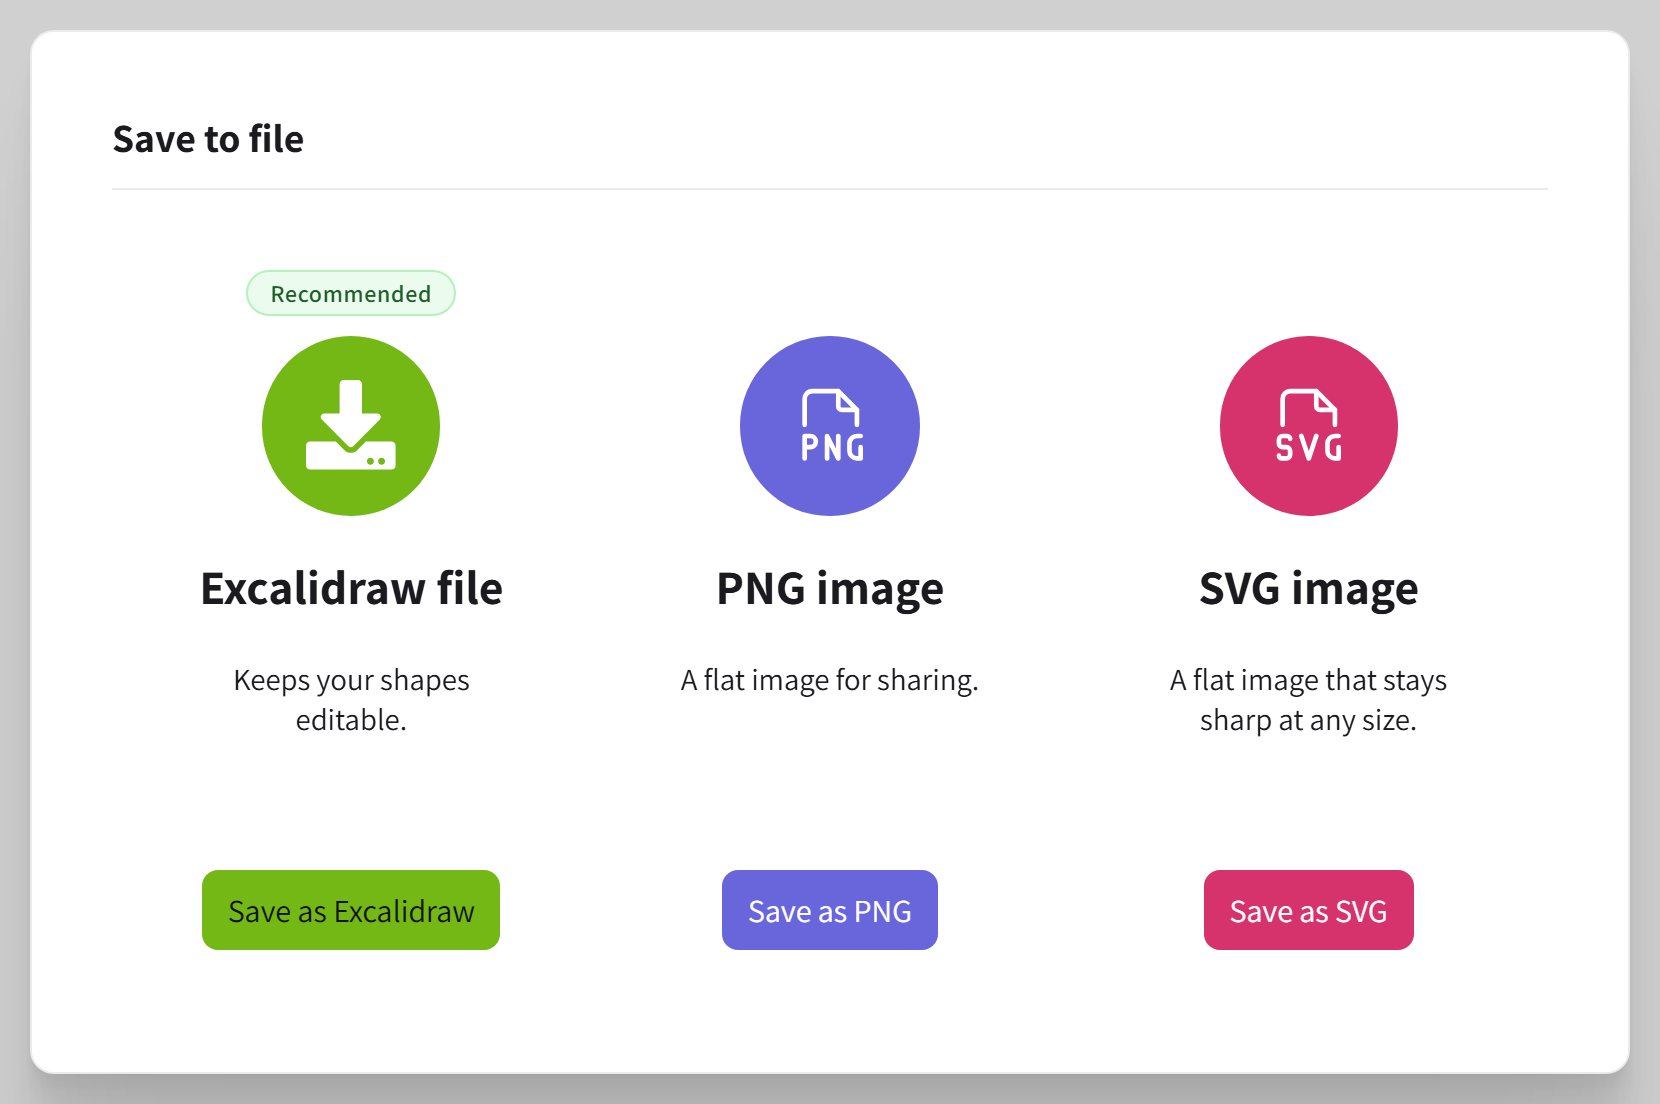
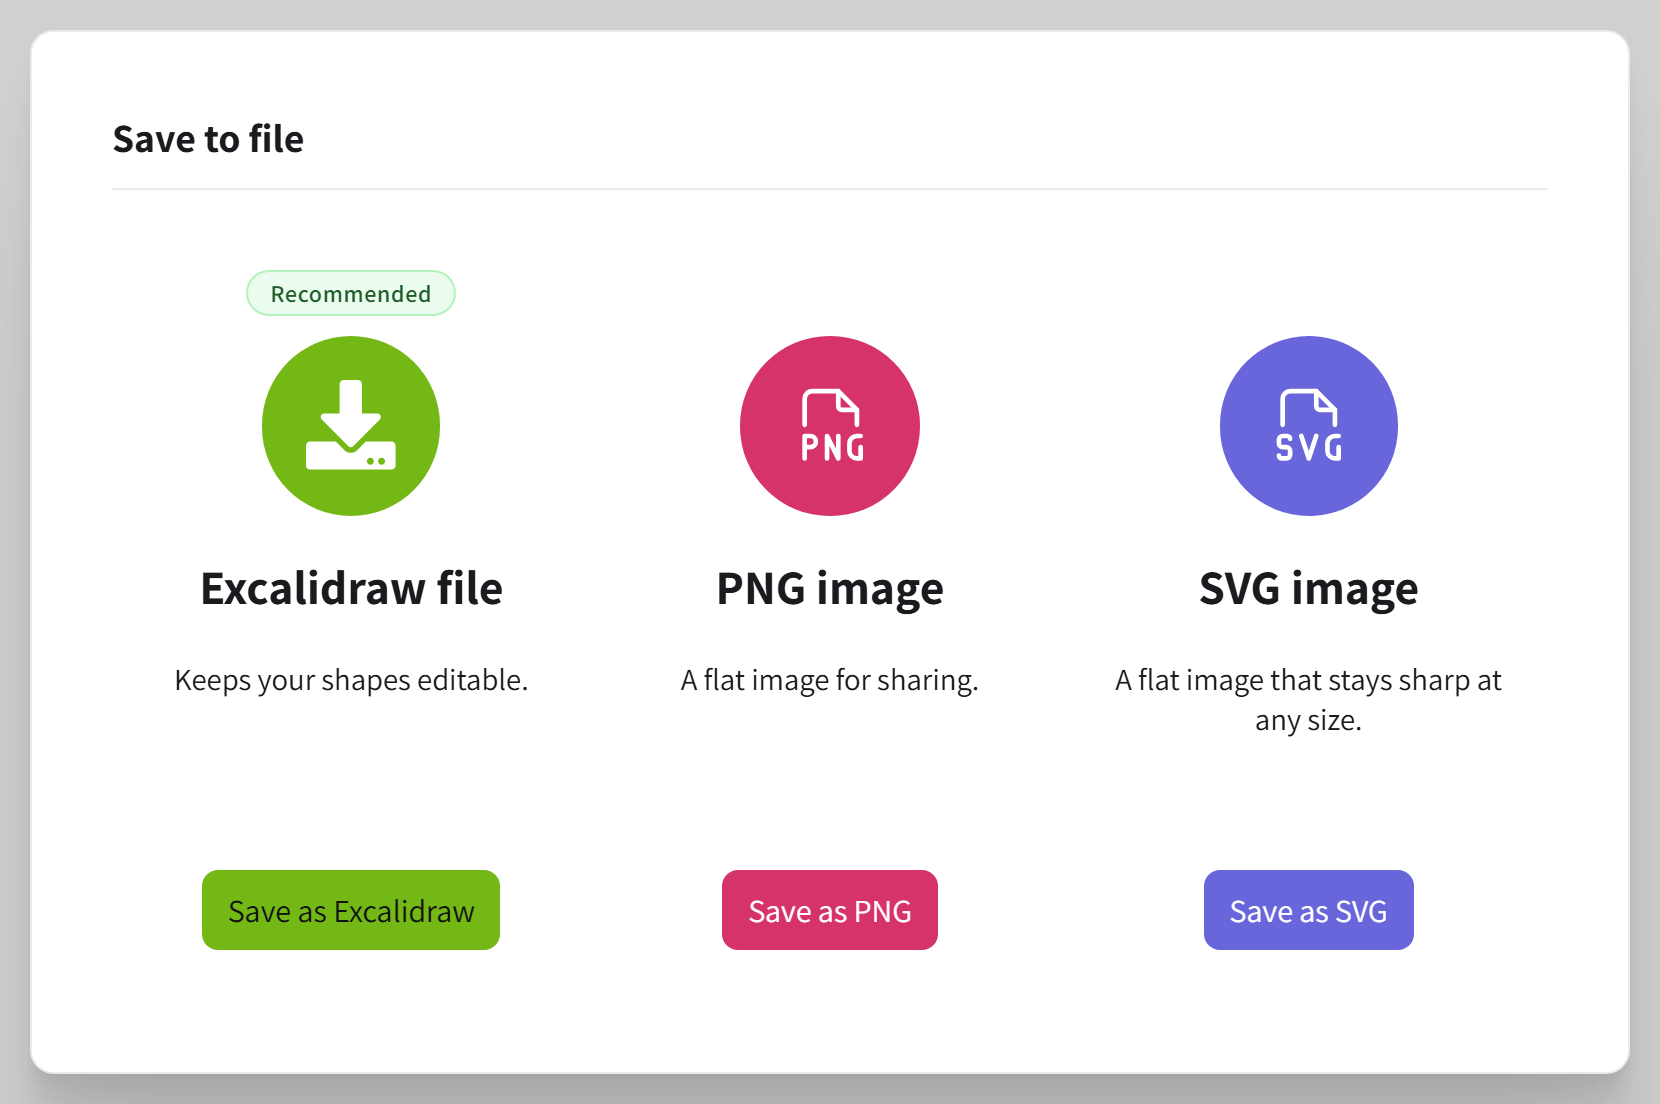
docs(repo): refresh the evidence against the deployed build, and log the last four decisions
The Gate A picker captures still showed the old colour order, and the
accessibility pack still said the badge was absent from every accessible name
and that focus fell to <body> after a card save. Both were true when written
and neither is now. Recaptured from g1-v0.2.4-beta.1.

The pack records how the focus bug went, not just that it is fixed: the first
attempt shipped in #16 never ran, the unit test passed because it removed the
opener synchronously in a way React never does, and it was caught by re-running
this evidence against the deployed build. That is worth keeping for whoever
reads this during handoff.

Decisions gains four rows: one live URL for the submission with control versus
treatment on the ?arm= switch and before versus after on the tags and
screenshots 44 to 47, with a second deployment declined as new infrastructure;
the focus correction and what it superseded; both tags with what was verified
live; and PR #17 held rather than merged, with the patch left attached.

diff --git a/docs/cycle-2/evidence/a11y-picker/a11y-picker.js b/docs/cycle-2/evidence/a11y-picker/a11y-picker.js
@@ -114,7 +114,7 @@ const run = async (browser, theme) => {
   await p.click(".persistent-save-button");
   await p.waitForSelector(".c1-save-formats", { timeout: 6000 });
   R.checks.emptyCanvas = {
-    excalidraw: await axNode(cdp, p, '[aria-label="Save as Excalidraw"]'),
+    excalidraw: await axNode(cdp, p, '[aria-label^="Save as Excalidraw"]'),
     png: await axNode(cdp, p, '[aria-label="Save as PNG"]'),
     svg: await axNode(cdp, p, '[aria-label="Save as SVG"]'),
     reasonShown: await p
@@ -156,7 +156,7 @@ const run = async (browser, theme) => {
   R.checks.dialog = await axNode(cdp, p, ".c1-save-format-dialog");
   R.checks.group = await axNode(cdp, p, ".c1-save-formats");
   R.checks.buttons = {
-    excalidraw: await axNode(cdp, p, '[aria-label="Save as Excalidraw"]'),
+    excalidraw: await axNode(cdp, p, '[aria-label^="Save as Excalidraw"]'),
     png: await axNode(cdp, p, '[aria-label="Save as PNG"]'),
     svg: await axNode(cdp, p, '[aria-label="Save as SVG"]'),
   };
@@ -197,7 +197,7 @@ const run = async (browser, theme) => {
   R.checks.contrast = await p.evaluate(() => {
     const rows = {};
     for (const [key, sel] of [
-      ["excalidraw", '[aria-label="Save as Excalidraw"]'],
+      ["excalidraw", '[aria-label^="Save as Excalidraw"]'],
       ["png", '[aria-label="Save as PNG"]'],
       ["svg", '[aria-label="Save as SVG"]'],
     ]) {
@@ -223,7 +223,7 @@ const run = async (browser, theme) => {
   }
 
   // ---- 6. focus ring, captured rather than computed -----------------------
-  await p.locator('[aria-label="Save as Excalidraw"]').focus();
+  await p.locator('[aria-label^="Save as Excalidraw"]').focus();
   await p.waitForTimeout(150);
   const island = await p.$(".c1-save-format-dialog .Island");
   const box = await island.boundingBox();

diff --git a/docs/cycle-2/evidence/a11y-picker/README.md b/docs/cycle-2/evidence/a11y-picker/README.md
@@ -1,8 +1,8 @@
 # Save format picker — accessibility evidence
 
-Gathered 2026-09-23 from the live demo at `g1-v0.2.2-beta.1`, the same page a reviewer would open. Both themes. Raw data in `results.json`, focus-ring captures in `picker-focus-{light,dark}.png`, script in the session scratchpad.
+Re-gathered 2026-09-23 16:45 EDT from the live demo at `g1-v0.2.4-beta.1` (commit `c85b143e`), both themes. Raw data in `results.json`, focus-ring captures in `picker-focus-{light,dark}.png`, script beside them.
 
-**This is evidence, not a sign-off.** Aisling built the picker, so under the 9/20 decision the builder can't sign off their own check. The point of this pack is that whoever takes the review (PRD §10 assigns QA to Cornell; Lawrence offered) spends the time on judgement, not legwork.
+**This is evidence, not a sign-off.** Aisling built the picker, so under the 9/20 decision the builder can't sign off their own check. §12 still needs a name.
 
 **What a computed tree is not.** Accessible names and roles below come from Chrome's own accessibility tree over CDP — what NVDA or VoiceOver is handed, not what a person hears. Announcement order, verbosity and whether anything is said twice in practice still need ears. Lawrence has been testing in VoiceOver; this complements that, it doesn't replace it.
 
@@ -10,15 +10,17 @@ Gathered 2026-09-23 from the live demo at `g1-v0.2.2-beta.1`, the same page a re
 
 | Check | Result |
 | :-- | :-- |
-| Button accessible names | `Save as Excalidraw` · `Save as PNG` · `Save as SVG` — exact, all `role=button` |
+| Button accessible names | `Save as Excalidraw, recommended` · `Save as PNG` · `Save as SVG`, all `role=button` |
+| Visible labels | `Save as Excalidraw` · `Save as PNG` · `Save as SVG` — each name contains its visible label (WCAG 2.5.3) |
 | Group | `role=group`, name `File format` |
-| Focus on open, from the top-right button | Lands on **Save as Excalidraw**, the first card |
-| Focus on open, from the card | Lands on **Save as Excalidraw** — same, both surfaces |
+| Focus on open, from either surface | Lands on the first card |
 | Tab containment | 6 presses cycle the three buttons and never leave the dialog |
-| Escape | Closes the dialog and returns focus to the **Save to file** button that opened it |
+| Escape | Closes and returns focus to the control that opened it |
+| **Focus after saving from the card** | **Returns to the persistent save button and stays there** — measured through t+2s |
+| Focus after saving from the button | Returns to that button |
 | Empty canvas | PNG and SVG report `disabled: true`; "Draw something first." is shown |
-| "Recommended" badge | 3 in the DOM, 2 `aria-hidden`, exposed exactly once |
-| Card announcement | One live region, reading "Save your drawing. Download a copy to your device so you can keep working with it later. Save to file, or dismiss." |
+| "Recommended" badge | 3 in the DOM, 2 `aria-hidden`, exposed once as text, and named once in the recommended button's name |
+| Card announcement | One live region, "Save your drawing… Save to file, or dismiss." |
 | axe-core (wcag2a/2aa/21a/21aa) | **0 violations**, 13 passes, both themes |
 | Page errors | None |
 
@@ -27,46 +29,36 @@ Gathered 2026-09-23 from the live demo at `g1-v0.2.2-beta.1`, the same page a re
 | Card              | Light  | Dark   | AA (4.5:1) |
 | :---------------- | :----- | :----- | :--------- |
 | Excalidraw file   | 7.68:1 | 7.68:1 | pass       |
-| PNG image         | 4.68:1 | 8.47:1 | pass       |
-| SVG image         | 4.62:1 | 4.62:1 | pass       |
+| PNG image         | 4.62:1 | 4.62:1 | pass       |
+| SVG image         | 4.68:1 | 8.47:1 | pass       |
 | Recommended badge | 7.48:1 | 7.48:1 | pass       |
 
 Excalidraw's greys don't flip between themes, so the fixed pairs hold in both.
 
-## What the reviewer should decide
+## Closed since the first pass
 
-### 1. The dialog has no accessible name — upstream, affects every dialog
+**Focus was dropped to `<body>` after saving from the card.** Fixed in PR #21, live and verified above.
 
-Computed: `role=dialog`, **name empty**. Jill's checklist asks that "the dialog should be announced with its title"; today it is announced as an unnamed dialog.
+Worth recording how it went, because the first fix did not work. PR #16 added a fallback that checked whether the opener was still connected — but `onSaved` and `onClose` are state setters, so React had not re-rendered when the check ran and the card's button was still in the document. It focused that button every time, and focus fell to `<body>` when React removed it. The unit test passed because it removed the opener synchronously, which the real app never does. It was caught by re-running this evidence against the deployed build and finding `<body>` on a build that supposedly contained the fix. The test now defers the removal the way React does.
 
-Root cause is not ours. `packages/excalidraw/components/Dialog.tsx` passes a hardcoded `labelledBy="dialog-title"` to `Modal`, while the heading it means to point at is rendered with a generated id, `${id}-dialog-title`. Verified in the live build:
+**The Recommended badge was not in any control's accessible name.** Fixed in PR #16, on Lawrence's proposal, live and verified above. Implemented as his intent rather than his literal line: `IconButton`'s `showAriaLabel` renders the accessible name _as_ the visible label, so setting `aria-label` alone would also have printed ", recommended" on the button face.
+
+## Still open
+
+**The dialog has no accessible name — upstream, affects every dialog.** Computed: `role=dialog`, **name empty**. Jill's checklist asks that the dialog be announced with its title; today it is announced as an unnamed dialog.
+
+`packages/excalidraw/components/Dialog.tsx` passes a hardcoded `labelledBy="dialog-title"` to `Modal`, while the heading it means to point at is rendered with a generated id. Verified on the live build:
 
 ```
 aria-labelledby   "dialog-title"
 target exists     false
-actual heading id "VZ_0nqiQIVNuzUzCdwRMW-dialog-title"
+actual heading id "<generated>-dialog-title"
 heading text      "Save to file"
 ```
 
-Every `[role="dialog"]` on the page carries the same dangling reference, so this is stock Excalidraw behaviour, not something the picker introduced. It is also why axe returns `aria-valid-attr-value` as _incomplete_ rather than clean.
+Every `[role="dialog"]` on the page carries the same dangling reference, so it is stock Excalidraw behaviour, not something the picker introduced. It is also why axe returns `aria-valid-attr-value` as _incomplete_ rather than clean.
 
-The fix is one line — `labelledBy={`${id}-dialog-title`}` — but it touches upstream code in `packages/`, which is outside what Carlos scoped this cycle. **Decision needed:** fix it for the handoff, or record it as a known upstream defect with the one-line patch attached.
-
-### 2. Focus is dropped to `<body>` after saving from the card
-
-Saving from the card clears the card, so the button that opened the dialog no longer exists. The dialog restores focus only `if (opener.current?.isConnected)`, which is false in that path, and focus falls back to `<body>` — a keyboard user is returned to the top of the document with no position.
-
-Measured, both themes: file downloads, dialog closes, card clears, then `document.activeElement` is `body`.
-
-Saving from the top-right button is unaffected: that button survives, and focus returns to it.
-
-Suggested fix, ours and small: when the opener has gone, send focus to the persistent save button instead, which is always present in the nudge arm.
-
-### 3. Should "Recommended" be part of a control's accessible name?
-
-The badge is text beside the icon, not inside any button. Tab through the picker and you hear "Save as Excalidraw / PNG / SVG" and nothing else — the recommendation reaches someone reading the dialog as text, not someone navigating by control.
-
-Not a WCAG failure, and deliberately kept out of the buttons so it is not announced three times. But it is a parity gap and it is the reviewer's call. Lawrence's approved copy had "Recommended" as the first word of the description, which would have put it in the reading order but not in the button name either.
+The one-line fix, with tests, is open as **PR #17** and deliberately held: it touches `packages/`, which Carlos placed out of scope for this cycle, and merging it widens this fork's diff against upstream Excalidraw. **Decision needed:** fix it, or hand over the patch as a known upstream defect.
 
 ## Reproducing
 

diff --git a/decisions.md b/decisions.md
@@ -107,6 +107,10 @@ The PRD (`persistent-save-master-prd.md`) states final requirements only. This f
 | 2026-09-23 | **Picker wording is closed, not open.** What Lawrence approved on 9/22 was the format copy inside the picker; the button label was approved separately on 9/20 | Lawrence, correcting the record 2026-09-23 | Recorded because the handoff list had it as still blocking. It is not |
 | 2026-09-23 | **Tooltips (Stage 3) moved to the backlog** rather than built or formally cut. Supersedes the 9/21 "remain open" row and resolves the contradiction with the roadmap §3 line that said they were cut | Team, 2026-09-23 | Three sources carried two states. Backlogged is the honest description: not built this cycle, not ruled out for a later one |
 | 2026-09-23 | **Canonical documents named:** the off-repo PRD Jillian maintains, and this file for decisions. The 9/18 local snapshots under `docs/cycle-2/prd/` stopped updating at 2026-09-18 18:15 and disagree with both | Jillian and Aisling | Two decisions files and two PRDs were in circulation; an engineering flag was raised against a four-day-old copy as a result. Deletion of the snapshots is pending Jillian |
+| 2026-09-23 | **One live URL for the submission, not two.** Control versus treatment is the `?arm=` switch on the single demo link: `?arm=control` hides both surfaces, `?arm=nudge` shows both. Before versus after a fix is Gate A evidence, carried by the tags plus stamped screenshots 44 to 47. A second deployment was declined as new infrastructure | Jillian (call); Aisling (verified) | Nothing in the PRD or this file asks for two live URLs, and PRD §5 only asks for before/after screenshots. Both arms re-verified on the deployed build, including that the choice sticks across a reload — which is why the bare link shows whichever arm was last chosen and must not be sent on its own. Carlos gets both `?arm=` URLs spelled out, with a note that the choice is sticky |
+| 2026-09-23 | **Focus returns to the persistent save button after a save from the card** (PR #21, tag `g1-v0.2.4-beta.1`). Supersedes the fallback shipped in #16, which never ran | Aisling | `onSaved` and `onClose` are state setters, so the first attempt checked whether the opener was still connected before React had re-rendered: it focused the card's button every time and focus fell to `<body>` when React removed it. The decision now happens after the commit. Caught by re-running the accessibility evidence against the deployed build and finding `<body>` on a build that supposedly contained the fix; the unit test had passed because it removed the opener synchronously, which the real app never does |
+| 2026-09-23 | **Releases tagged and verified live:** `g1-v0.2.3-beta.1` (house colour order, equal card widths, flat image saves, accessible-name fixes) and `g1-v0.2.4-beta.1` (the focus correction). PRD §13 should name `g1-v0.2.4-beta.1` | Aisling | Verified on the deployed build in both themes: colour order, equal widths, label contrast 7.68 / 4.62 / 4.68 light and 7.68 / 4.62 / 8.47 dark, images flat with Embed scene on, accessible name "Save as Excalidraw, recommended" against visible label "Save as Excalidraw", focus returning after both save paths, and both `?arm=` switches. No page errors |
+| 2026-09-23 | **PR #17, the upstream dialog accessible-name defect, is held rather than merged.** The patch and its tests stay open and attached | Aisling (proposed); Aisling and Jillian (held), pending a scope call | Every dialog in the app is announced without a name, because `Dialog.tsx` points `aria-labelledby` at an id that is never rendered. The fix is one line, but it is in `packages/`, which Carlos placed out of scope, and merging widens this fork's diff against upstream Excalidraw. Recorded as a known upstream defect with the patch attached so whoever picks it up does not have to rediscover it |
 
 ---
 
